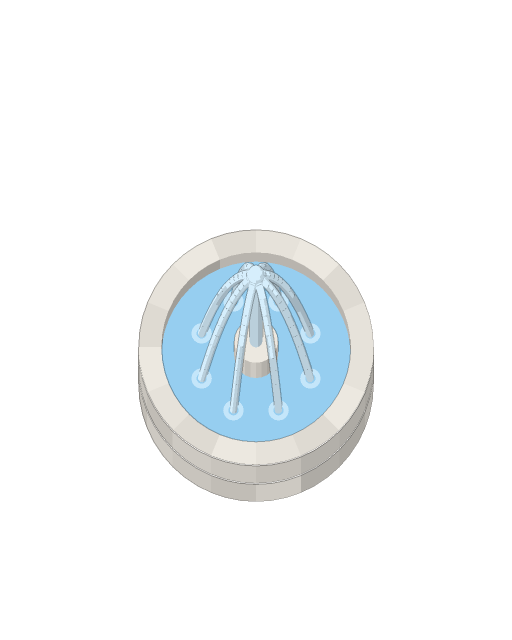
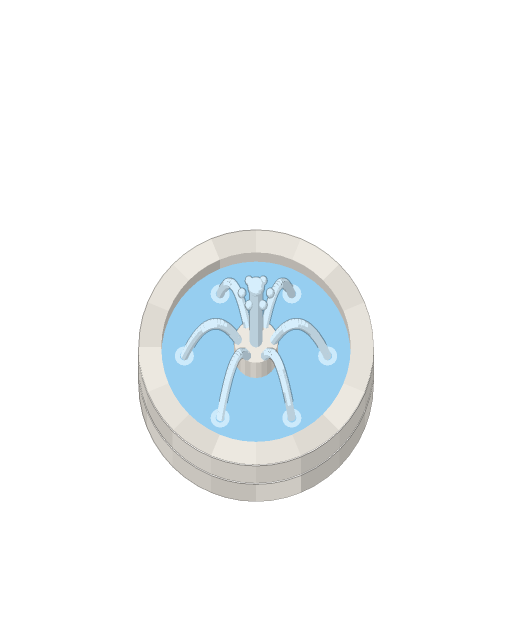
噴水のお手本の水の形を直す（まん中の水と、弧をえがいて落ちる6本の水）
Claude-Session: https://claude.ai/code/session_01JdcgfNP89MZKdNE3ikSj1K

Changed region(s): [[0.3125, 0.4062, 0.6875, 0.6875]]

diff --git a/tools/art/fountain/fountain3d.py b/tools/art/fountain/fountain3d.py
@@ -8,8 +8,8 @@ RO,RI=0.92,0.74       # 水ばちの外・内の半径
 HW=0.36               # 水ばちのかべの高さ（石2だん）
 WZ=0.27               # 水の面の高さ
 PR,PH=0.17,0.42       # まん中の台の半径・高さ
-JR,JH=0.05,1.05       # ふき上げる水の太さ・てっぺんの高さ
-BR=0.46               # 水の落ちる所の半径
+JR,JH=0.05,0.95       # ふき上げる水の太さ・てっぺんの高さ
+AR,AZ=0.56,0.66       # 弧の水の落ちる所の半径・弧のてっぺんの高さ
 STONE=[(236,232,224),(222,218,210),(230,226,218)]
 WATER=(150,206,240);JET=(214,238,252)
 def stone(row):
@@ -24,14 +24,17 @@ def build(sc):
     sc.ring_wall(CX,CY,PR,WZ,PH,lambda i,a0,a1:STONE[i%2],n=24)  # まん中の台
     sc.annulus(CX,CY,0,PR,PH,lambda *a:STONE[0],n=24)
     sc.ring_wall(CX,CY,JR,PH,JH,lambda *a:JET,n=20)    # まん中からまっすぐふき上げる水
-    for k in range(8):                                   # てっぺんから8本の水が、弧をえがいて外へ落ちる
-        a=2*math.pi*k/8+math.pi/8
-        pts=[(CX+BR*t*math.cos(a),CY+BR*t*math.sin(a),JH-(JH-WZ)*t*t) for t in [i/14 for i in range(15)]]
-        sc.tube(pts,0.03,JET)
-    sc.sphere(CX,CY,JH,0.07,JET)                         # ふき上げたてっぺんの水
-    for k in range(8):                                   # 水の落ちる所の小さな波の輪
-        a=2*math.pi*k/8+math.pi/8;x=CX+BR*math.cos(a);y=CY+BR*math.sin(a)
-        sc.annulus(x,y,0.04,0.08,WZ+0.004,lambda *q:(196,230,250),n=16)
+    sc.sphere(CX,CY,JH,JR*1.3,JET,zs=0.8)               # そのてっぺん
+    for k in range(6):                                   # てっぺんのしぶき（小さな水のつぶ）
+        a=2*math.pi*k/6;sc.sphere(CX+0.11*math.cos(a),CY+0.11*math.sin(a),JH-0.06,0.03,JET)
+    for k in range(6):                                   # 台のふちから6本の水が、弧をえがいて上がり、水面へ落ちる（なげた物と同じ放物線）
+        a=2*math.pi*k/6;r0,r1=PR*0.8,AR;zt=AZ  # まっすぐ手前に向く弧はつくらない
+        pts=[]
+        for i in range(21):
+            u=i/20;r=r0+(r1-r0)*u;z=PH+4*(zt-PH)*u*(1-u)+(WZ-PH)*u   # 0と1でふちと水面、まん中でいちばん高い
+            pts.append((CX+r*math.cos(a),CY+r*math.sin(a),z))
+        sc.tube(pts,0.032,JET)
+        sc.annulus(CX+r1*math.cos(a),CY+r1*math.sin(a),0.035,0.075,WZ+0.004,lambda *q:(204,234,251),n=16)  # 落ちる所の波の輪
 sc=Scene();build(sc)
 out=sys.argv[1] if len(sys.argv)>1 else os.path.dirname(__file__)
 ext=(-1.0,3.0,-2.0,3.0)

diff --git a/tools/art/oblique3d.py b/tools/art/oblique3d.py
@@ -88,7 +88,7 @@ def render(sc, proj, ext, depth):
         szb = zb[by0:by1+1, bx0:bx1+1]; sub = img[by0:by1+1, bx0:bx1+1]
         vis = m & (z > szb); szb[vis] = z[vis]; sub[vis, :3] = cc; sub[vis, 3] = 255
     # ふちの線：透明とのさかい（形のふち）と、奥行きが大きくとぶ所（前後の物のさかい）。線の色は、手前がわの色を少しこくした色
-    a = img[..., 3] > 0; edge = np.zeros_like(a); T = 0.06
+    a = img[..., 3] > 0; edge = np.zeros_like(a); T = 0.15
     for dy, dx in ((0, 1), (1, 0), (0, -1), (-1, 0)):
         sa = np.roll(a, (dy, dx), (0, 1)); sz = np.roll(zb, (dy, dx), (0, 1))
         edge |= a & (~sa | (sz - zb > T))      # となりが透明か、となりがずっと手前（自分が奥）→ 自分のがわに線
